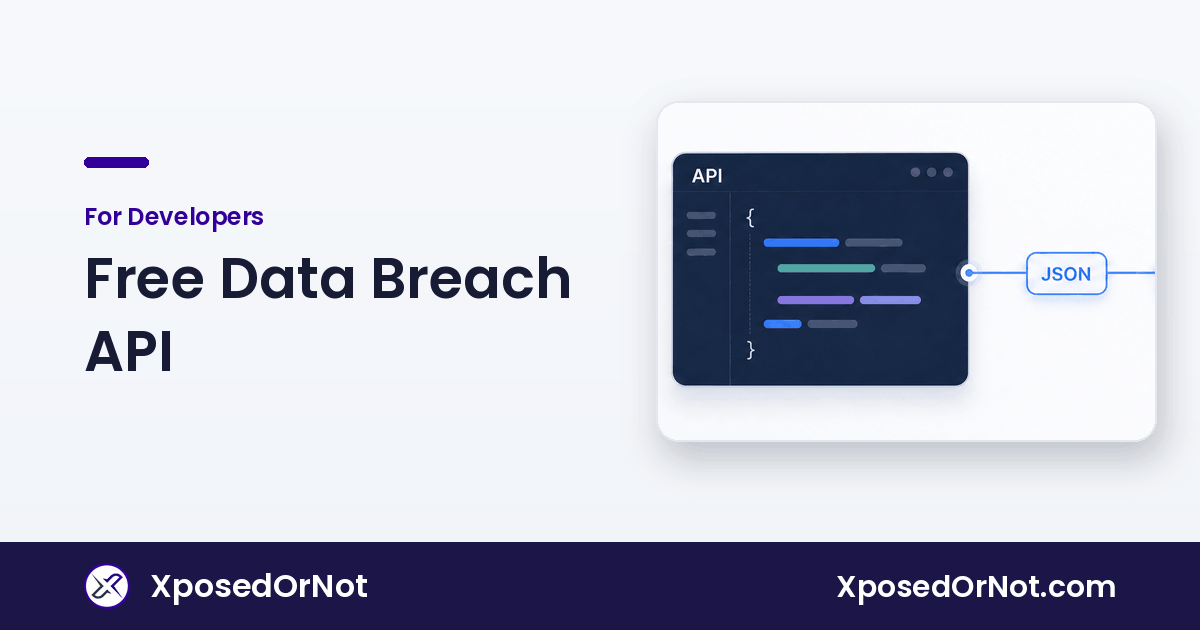
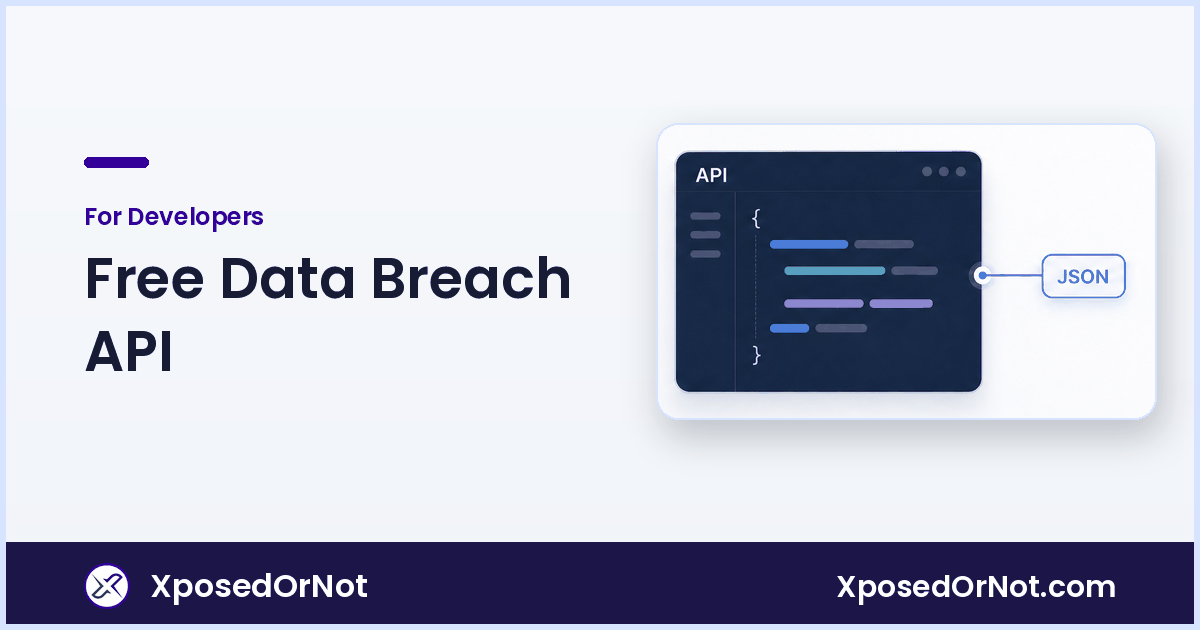
📦 assets: Refresh OG images

Changed region(s): [[0.0, 0.0, 1.0, 1.0], [0.555, 0.181, 0.9558, 0.6333]]

diff --git a/index.nginx-debian.html b/index.nginx-debian.html
@@ -1,0 +1,23 @@
+<!DOCTYPE html>
+<html>
+<head>
+<title>Welcome to nginx!</title>
+<style>
+html { color-scheme: light dark; }
+body { width: 35em; margin: 0 auto;
+font-family: Tahoma, Verdana, Arial, sans-serif; }
+</style>
+</head>
+<body>
+<h1>Welcome to nginx!</h1>
+<p>If you see this page, the nginx web server is successfully installed and
+working. Further configuration is required.</p>
+
+<p>For online documentation and support please refer to
+<a href="http://nginx.org/">nginx.org</a>.<br/>
+Commercial support is available at
+<a href="http://nginx.com/">nginx.com</a>.</p>
+
+<p><em>Thank you for using nginx.</em></p>
+</body>
+</html>
